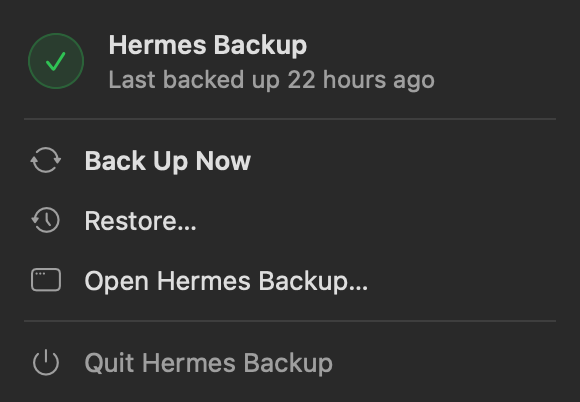
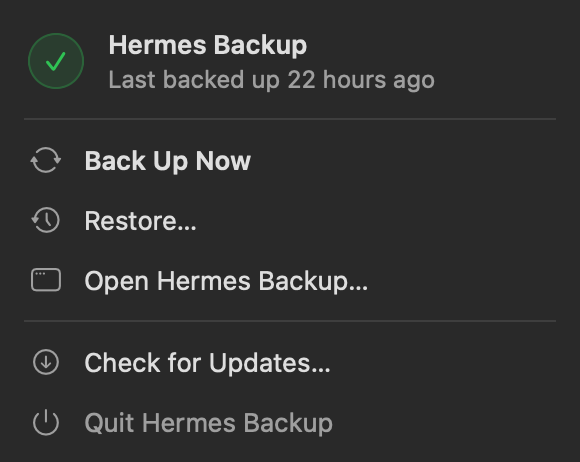
Add in-app updates from GitHub Releases, release script and MIT license
The app checks this repo's latest release daily (and on demand from the menu),
downloads the DMG, verifies the app is signed by the same team and is the
expected version, swaps it in place and relaunches.

diff --git a/Sources/HermesBackup/Updater.swift b/Sources/HermesBackup/Updater.swift
@@ -1,0 +1,220 @@
+import AppKit
+
+/// Updates come straight from this project's GitHub Releases: the newest release's `.dmg` is
+/// downloaded, the app inside is checked (signed by the same Apple team, newer version), and it
+/// replaces this copy, then relaunches. Nothing installs without the user clicking Install.
+@MainActor
+final class Updater: ObservableObject {
+    static let shared = Updater()
+
+    nonisolated static let repo = "Latrixz/hermes-backup"
+    /// Every release must be signed by this Apple Developer team, whatever this copy is signed with.
+    nonisolated static let teamID = "ZT64LKJB82"
+
+    struct Release: Equatable {
+        let version: String
+        let notes: String
+        let dmg: URL
+        let page: URL
+    }
+
+    enum Phase: Equatable { case idle, checking, downloading, installing }
+
+    @Published private(set) var available: Release?
+    @Published private(set) var phase: Phase = .idle
+    private var timer: Timer?
+
+    nonisolated static var currentVersion: String {
+        Bundle.main.object(forInfoDictionaryKey: "CFBundleShortVersionString") as? String ?? "0"
+    }
+
+    func start() {
+        Task { await check(manual: false) }
+        timer = Timer.scheduledTimer(withTimeInterval: 24 * 3600, repeats: true) { _ in
+            Task { @MainActor in await Updater.shared.check(manual: false) }
+        }
+    }
+
+    /// `manual`: the user asked, so say something either way.
+    func check(manual: Bool) async {
+        guard phase == .idle else { return }
+        phase = .checking
+        defer { if phase == .checking { phase = .idle } }
+        do {
+            let latest = try await Self.fetchLatest()
+            if let latest, Self.isNewer(latest.version, than: Self.currentVersion) {
+                available = latest
+                if manual { offer(latest) }
+            } else {
+                available = nil
+                if manual { inform("Hermes Backup is up to date", "You have the newest version, \(Self.currentVersion).") }
+            }
+        } catch {
+            if manual { inform("Couldn't check for updates", error.localizedDescription) }
+        }
+    }
+
+    /// Asks before installing; called from the menu row or after a manual check.
+    func offer(_ r: Release? = nil) {
+        guard let r = r ?? available else { return }
+        NSApp.activate(ignoringOtherApps: true)
+        let a = NSAlert()
+        a.messageText = "Hermes Backup \(r.version) is available"
+        let notes = r.notes.trimmingCharacters(in: .whitespacesAndNewlines)
+        a.informativeText = "You have \(Self.currentVersion)."
+            + (notes.isEmpty ? "" : "\n\n" + String(notes.prefix(800)))
+            + "\n\nIt installs in a few seconds and reopens. Your settings, password and backups stay as they are."
+        a.addButton(withTitle: "Install and Relaunch")
+        a.addButton(withTitle: "Later")
+        a.addButton(withTitle: "Release Notes")
+        switch a.runModal() {
+        case .alertFirstButtonReturn: Task { await install(r) }
+        case .alertThirdButtonReturn: NSWorkspace.shared.open(r.page)
+        default: break
+        }
+    }
+
+    func install(_ r: Release) async {
+        guard phase == .idle else { return }
+        if AppModel.shared.activity != nil {
+            inform("Try again in a moment", "A backup or restore is running. Install the update once it finishes.")
+            return
+        }
+        let target = Bundle.main.bundleURL
+        phase = .downloading
+        do {
+            let staged = try await Self.download(r)
+            phase = .installing
+            try await Task.detached { try Self.replace(target, with: staged, relaunch: true) }.value
+            NSApp.terminate(nil)
+        } catch {
+            phase = .idle
+            let a = NSAlert()
+            a.messageText = "The update didn't install"
+            a.informativeText = error.localizedDescription + "\n\nYou can download it from GitHub and drag it into Applications instead."
+            a.addButton(withTitle: "Open Download Page")
+            a.addButton(withTitle: "Cancel")
+            if a.runModal() == .alertFirstButtonReturn { NSWorkspace.shared.open(r.page) }
+        }
+    }
+
+    private func inform(_ title: String, _ text: String) {
+        NSApp.activate(ignoringOtherApps: true)
+        let a = NSAlert()
+        a.messageText = title
+        a.informativeText = text
+        a.runModal()
+    }
+
+    // MARK: - Steps (no UI; also used by the self-test)
+
+    nonisolated static func fetchLatest() async throws -> Release? {
+        var req = URLRequest(url: URL(string: "https://api.github.com/repos/\(repo)/releases/latest")!)
+        req.setValue("application/vnd.github+json", forHTTPHeaderField: "Accept")
+        req.setValue("HermesBackup/\(Bundle.main.object(forInfoDictionaryKey: "CFBundleShortVersionString") as? String ?? "dev")",
+                     forHTTPHeaderField: "User-Agent")
+        req.timeoutInterval = 30
+        let (data, resp) = try await URLSession.shared.data(for: req)
+        let code = (resp as? HTTPURLResponse)?.statusCode ?? 0
+        if code == 404 { return nil }   // no releases yet
+        guard code == 200 else { throw ShellError(message: "GitHub answered \(code).") }
+        return try parse(data)
+    }
+
+    nonisolated static func parse(_ data: Data) throws -> Release? {
+        struct Asset: Decodable { let name: String; let browser_download_url: URL }
+        struct Body: Decodable {
+            let tag_name: String; let body: String?; let html_url: URL
+            let draft: Bool?; let prerelease: Bool?; let assets: [Asset]
+        }
+        let b = try JSONDecoder().decode(Body.self, from: data)
+        guard b.draft != true, b.prerelease != true,
+              let dmg = b.assets.first(where: { $0.name.lowercased().hasSuffix(".dmg") }) else { return nil }
+        let version = b.tag_name.hasPrefix("v") ? String(b.tag_name.dropFirst()) : b.tag_name
+        return Release(version: version, notes: b.body ?? "", dmg: dmg.browser_download_url, page: b.html_url)
+    }
+
+    /// Numeric, part by part: 0.10.0 is newer than 0.9.2.
+    nonisolated static func isNewer(_ a: String, than b: String) -> Bool {
+        func parts(_ s: String) -> [Int] { s.split(separator: ".").map { Int($0.prefix { $0.isNumber }) ?? 0 } }
+        let x = parts(a), y = parts(b)
+        for i in 0..<max(x.count, y.count) {
+            let p = i < x.count ? x[i] : 0, q = i < y.count ? y[i] : 0
+            if p != q { return p > q }
+        }
+        return false
+    }
+
+    /// Downloads the DMG and copies the verified app out of it into a scratch folder.
+    nonisolated static func download(_ r: Release) async throws -> URL {
+        let (file, resp) = try await URLSession.shared.download(from: r.dmg)
+        guard (resp as? HTTPURLResponse)?.statusCode == 200 else {
+            throw ShellError(message: "The download failed (\((resp as? HTTPURLResponse)?.statusCode ?? 0)).")
+        }
+        return try await Task.detached { try unpack(file, expecting: r.version) }.value
+    }
+
+    nonisolated static func unpack(_ dmgFile: URL, expecting version: String) throws -> URL {
+        let fm = FileManager.default
+        let work = fm.temporaryDirectory.appendingPathComponent("HermesBackupUpdate-\(UUID().uuidString)")
+        try fm.createDirectory(at: work, withIntermediateDirectories: true)
+        let dmg = work.appendingPathComponent("update.dmg")
+        try fm.moveItem(at: dmgFile, to: dmg)
+        let mount = work.appendingPathComponent("mnt")
+        let attach = try Shell.run("/usr/bin/hdiutil", ["attach", dmg.path, "-nobrowse", "-readonly",
+                                                        "-noautoopen", "-mountpoint", mount.path])
+        guard attach.ok else { throw ShellError(message: "Couldn't open the download.\n\(attach.tail)") }
+        defer { _ = try? Shell.run("/usr/bin/hdiutil", ["detach", mount.path, "-force"]) }
+
+        let src = mount.appendingPathComponent("Hermes Backup.app")
+        let app = work.appendingPathComponent("Hermes Backup.app")
+        guard fm.fileExists(atPath: src.path) else { throw ShellError(message: "The download doesn't contain Hermes Backup.") }
+        let copy = try Shell.run("/usr/bin/ditto", [src.path, app.path])
+        guard copy.ok else { throw ShellError(message: "Couldn't copy the update.\n\(copy.tail)") }
+        try verify(app, expecting: version)
+        return app
+    }
+
+    /// The app must be intact, signed by our team, and the version the release says it is.
+    nonisolated static func verify(_ app: URL, expecting version: String) throws {
+        let check = try Shell.run("/usr/bin/codesign", ["--verify", "--deep", "--strict", app.path])
+        guard check.ok else { throw ShellError(message: "The update's signature is broken, so it wasn't installed.") }
+        let info = try Shell.run("/usr/bin/codesign", ["-dv", app.path])
+        guard info.output.contains("TeamIdentifier=\(teamID)") else {
+            throw ShellError(message: "The update isn't signed by the Hermes Backup developer, so it wasn't installed.")
+        }
+        let plist = NSDictionary(contentsOf: app.appendingPathComponent("Contents/Info.plist"))
+        guard plist?["CFBundleIdentifier"] as? String == "com.quantumape.hermesbackup",
+              plist?["CFBundleShortVersionString"] as? String == version else {
+            throw ShellError(message: "The download isn't the expected version, so it wasn't installed.")
+        }
+    }
+
+    /// Swaps the app in place. With `relaunch`, a small helper waits for this app to quit, opens
+    /// the new copy and cleans up; the caller then quits.
+    nonisolated static func replace(_ target: URL, with staged: URL, relaunch: Bool) throws {
+        let fm = FileManager.default
+        let parent = target.deletingLastPathComponent()
+        guard fm.isWritableFile(atPath: parent.path) else {
+            throw ShellError(message: "This Mac doesn't let Hermes Backup write to \(parent.path).")
+        }
+        // Copy next to the target first (same disk), then swap, so a failure never leaves no app.
+        let incoming = parent.appendingPathComponent(".Hermes Backup update.app")
+        try? fm.removeItem(at: incoming)
+        let copy = try Shell.run("/usr/bin/ditto", [staged.path, incoming.path])
+        guard copy.ok else { throw ShellError(message: "Couldn't copy the update.\n\(copy.tail)") }
+        _ = try fm.replaceItemAt(target, withItemAt: incoming)
+        try? fm.removeItem(at: staged.deletingLastPathComponent())
+
+        guard relaunch else { return }
+        let pid = ProcessInfo.processInfo.processIdentifier
+        let script = """
+        while kill -0 \(pid) 2>/dev/null; do sleep 0.3; done
+        for i in 1 2 3 4 5; do /usr/bin/open "$1" && exit 0; sleep 1; done
+        """
+        let p = Process()
+        p.executableURL = URL(fileURLWithPath: "/bin/sh")
+        p.arguments = ["-c", script, "relaunch", target.path]
+        try p.run()   // keeps running after this app quits
+    }
+}

diff --git a/Sources/HermesBackup/SelfTest.swift b/Sources/HermesBackup/SelfTest.swift
@@ -6,6 +6,8 @@ import SwiftUI
 ///   HermesBackup --test-unlock <dmg> <password> <outdir>  unlock a backup and copy its contents out
 ///   HermesBackup --test-render-menu <png>                 draw the menu bar panel to an image
 ///   HermesBackup --test-render-window <png> [restore|twice]  draw the main window's content to an image
+///   HermesBackup --test-update-check                      show the newest release on GitHub
+///   HermesBackup --test-update <app>                      download, verify and swap the newest release into <app>
 enum SelfTest {
     static func runIfAsked() {
         let a = CommandLine.arguments
@@ -65,6 +67,17 @@ enum SelfTest {
                     try? rep.representation(using: .png, properties: [:])!.write(to: URL(fileURLWithPath: a[2]))
                 }
                 print("rendered", a[2])
+            case "--test-update-check":
+                let r = try waitFor { try await Updater.fetchLatest() }
+                print("this copy:", Updater.currentVersion)
+                print("latest:", r.map { "\($0.version) \($0.dmg)" } ?? "no release")
+                print("newer:", r.map { Updater.isNewer($0.version, than: Updater.currentVersion) } ?? false)
+            case "--test-update" where a.count == 3:
+                guard let r = try waitFor({ try await Updater.fetchLatest() }) else { print("no release"); exit(1) }
+                let staged = try waitFor { try await Updater.download(r) }
+                print("verified", r.version)
+                try Updater.replace(URL(fileURLWithPath: a[2]), with: staged, relaunch: false)
+                print("installed into", a[2])
             default:
                 print("unknown test")
                 exit(2)
@@ -74,5 +87,17 @@ enum SelfTest {
             print("FAILED:", error.localizedDescription)
             exit(1)
         }
+    }
+
+    /// Runs async work to completion from the synchronous self-test.
+    private static func waitFor<T>(_ work: @escaping @Sendable () async throws -> T) throws -> T {
+        nonisolated(unsafe) var result: Result<T, Error>!
+        let done = DispatchSemaphore(value: 0)
+        Task.detached {
+            do { result = .success(try await work()) } catch { result = .failure(error) }
+            done.signal()
+        }
+        done.wait()
+        return try result.get()
     }
 }

diff --git a/Sources/HermesBackup/App.swift b/Sources/HermesBackup/App.swift
@@ -22,6 +22,7 @@ final class AppDelegate: NSObject, NSApplicationDelegate {
     func applicationDidFinishLaunching(_ notification: Notification) {
         MainActor.assumeIsolated {
             AppModel.shared.start()
+            Updater.shared.start()
             if !AppModel.shared.hasPassword { MainWindow.show(.backup) }
         }
     }
@@ -46,6 +47,7 @@ extension AppModel {
 /// The menu bar panel: a quiet status header, one clear primary action, the rest out of the way.
 struct MenuPanel: View {
     @EnvironmentObject private var model: AppModel
+    @ObservedObject private var updater = Updater.shared
 
     var body: some View {
         VStack(alignment: .leading, spacing: 0) {
@@ -64,10 +66,29 @@ struct MenuPanel: View {
             }
             .padding(6)
             Divider().padding(.horizontal, 12)
-            MenuRow("Quit Hermes Backup", symbol: "power", quiet: true) { NSApp.terminate(nil) }
-                .padding(6)
+            VStack(spacing: 2) {
+                if let r = updater.available {
+                    MenuRow(updateTitle(r), symbol: "arrow.down.circle", prominent: true,
+                            disabled: updater.phase != .idle) { updater.offer() }
+                } else {
+                    MenuRow(updater.phase == .checking ? "Checking for Updates…" : "Check for Updates…",
+                            symbol: "arrow.down.circle", disabled: updater.phase != .idle) {
+                        Task { await updater.check(manual: true) }
+                    }
+                }
+                MenuRow("Quit Hermes Backup", symbol: "power", quiet: true) { NSApp.terminate(nil) }
+            }
+            .padding(6)
         }
         .frame(width: 290)
+    }
+
+    private func updateTitle(_ r: Updater.Release) -> String {
+        switch updater.phase {
+        case .downloading: return "Downloading \(r.version)…"
+        case .installing: return "Installing \(r.version)…"
+        default: return "Update to \(r.version)…"
+        }
     }
 }
 

diff --git a/Tests/HermesBackupTests/UpdaterTests.swift b/Tests/HermesBackupTests/UpdaterTests.swift
@@ -1,0 +1,35 @@
+import XCTest
+@testable import HermesBackup
+
+final class UpdaterTests: XCTestCase {
+    func testVersionOrder() {
+        XCTAssertTrue(Updater.isNewer("0.2.0", than: "0.1.0"))
+        XCTAssertTrue(Updater.isNewer("0.10.0", than: "0.9.2"))
+        XCTAssertTrue(Updater.isNewer("1.0", than: "0.99.99"))
+        XCTAssertTrue(Updater.isNewer("0.1.1", than: "0.1"))
+        XCTAssertFalse(Updater.isNewer("0.1.0", than: "0.1.0"))
+        XCTAssertFalse(Updater.isNewer("0.1", than: "0.1.0"))
+        XCTAssertFalse(Updater.isNewer("0.1.0", than: "0.2.0"))
+    }
+
+    func release(tag: String, assets: [String], draft: Bool = false, prerelease: Bool = false) -> Data {
+        let a = assets.map { #"{"name":"\#($0)","browser_download_url":"https://example.com/\#($0)"}"# }
+        return Data(#"""
+        {"tag_name":"\#(tag)","body":"Notes","html_url":"https://github.com/x/y/releases/tag/\#(tag)",
+         "draft":\#(draft),"prerelease":\#(prerelease),"assets":[\#(a.joined(separator: ","))]}
+        """#.utf8)
+    }
+
+    func testParsesTagAndPicksDMG() throws {
+        let r = try XCTUnwrap(Updater.parse(release(tag: "v0.2.0", assets: ["notes.txt", "Hermes-Backup-0.2.0.dmg"])))
+        XCTAssertEqual(r.version, "0.2.0")
+        XCTAssertEqual(r.dmg.lastPathComponent, "Hermes-Backup-0.2.0.dmg")
+        XCTAssertEqual(r.notes, "Notes")
+    }
+
+    func testIgnoresReleasesWithoutDMGOrNotFinal() throws {
+        XCTAssertNil(try Updater.parse(release(tag: "v0.2.0", assets: ["source.zip"])))
+        XCTAssertNil(try Updater.parse(release(tag: "v0.2.0", assets: ["a.dmg"], prerelease: true)))
+        XCTAssertNil(try Updater.parse(release(tag: "v0.2.0", assets: ["a.dmg"], draft: true)))
+    }
+}

diff --git a/README.md b/README.md
@@ -25,13 +25,17 @@ Hermes keeps everything that makes it *yours* (memories, skills, chat sessions, 
 
 ## Install
 
-1. Download **Hermes Backup.dmg** from [Releases](https://github.com/Latrixz/hermes-backup/releases/latest). It's signed and notarized by Apple, so it opens without warnings.
+1. Download the `.dmg` from the [latest release](https://github.com/Latrixz/hermes-backup/releases/latest). It's signed and notarized by Apple, so it opens without warnings.
 2. Drag **Hermes Backup** to Applications and open it. It lives in the menu bar.
 3. Choose a backup password, add any extra destinations, and you're done.
 
 **Needs:** macOS 14 or later, and [Hermes Agent](https://github.com/NousResearch/hermes-agent) installed (the `hermes` command).
 
 > **Keep your password safe.** Without it, a backup can't be opened, by design.
+
+### Updates
+
+Hermes Backup checks this repo's releases once a day. When there's a new version, the menu shows **Update to x.y.z…**; click it to see what's new, then **Install and Relaunch**. You can also choose **Check for Updates…** at any time. Before installing, it checks the download is signed by the same developer and is the version it claims to be. Your settings, password and backups aren't touched.
 
 ## How it works
 
@@ -45,7 +49,12 @@ Hermes keeps everything that makes it *yours* (memories, skills, chat sessions, 
     ./build.sh --dmg                  # universal build + DMG, ad-hoc signed
     SIGN_IDENTITY="Developer ID Application: …" NOTARY_PROFILE=<profile> ./build.sh --dmg   # signed + notarized
 
-Run tests with `swift test`. Icon: `swift scripts/make-icon.swift && iconutil -c icns build/AppIcon.iconset -o Resources/AppIcon.icns`
+Run tests with `swift test`.
+
+To publish a release (tests, version bump, signed and notarized DMG, tag, GitHub release):
+
+    scripts/release.sh 0.2.0 "What changed"
+ Icon: `swift scripts/make-icon.swift && iconutil -c icns build/AppIcon.iconset -o Resources/AppIcon.icns`
 
 ### Testing without touching your live Hermes
 
@@ -55,4 +64,6 @@ Run tests with `swift test`. Icon: `swift scripts/make-icon.swift && iconutil -c
 
 Settings live in `~/Library/Application Support/HermesBackup/settings.json`.
 
-Hermes Backup is an independent tool and isn't made by Nous Research.
+## License
+
+[MIT](LICENSE). Hermes Backup is an independent tool and isn't made by Nous Research.
